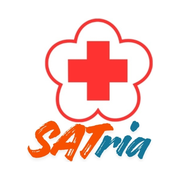
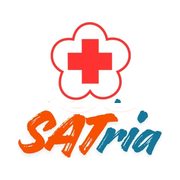
Ikon SATria baru (tulisan lebih besar) dengan nama file baru agar cache HP diperbarui

Changed region(s): [[0.0833, 0.0833, 0.9167, 0.9167]]

diff --git a/portal-surat/public/sw.js b/portal-surat/public/sw.js
@@ -4,8 +4,8 @@ self.addEventListener('push', function (event) {
 
   const options = {
     body: data.body,
-    icon: '/icon-pmi-192.png',
-    badge: '/icon-pmi-192.png',
+    icon: '/icon-satria-192.png',
+    badge: '/icon-satria-192.png',
     data: { url: data.url || '/surat-masuk' },
     vibrate: [200, 100, 200],
     silent: false,
